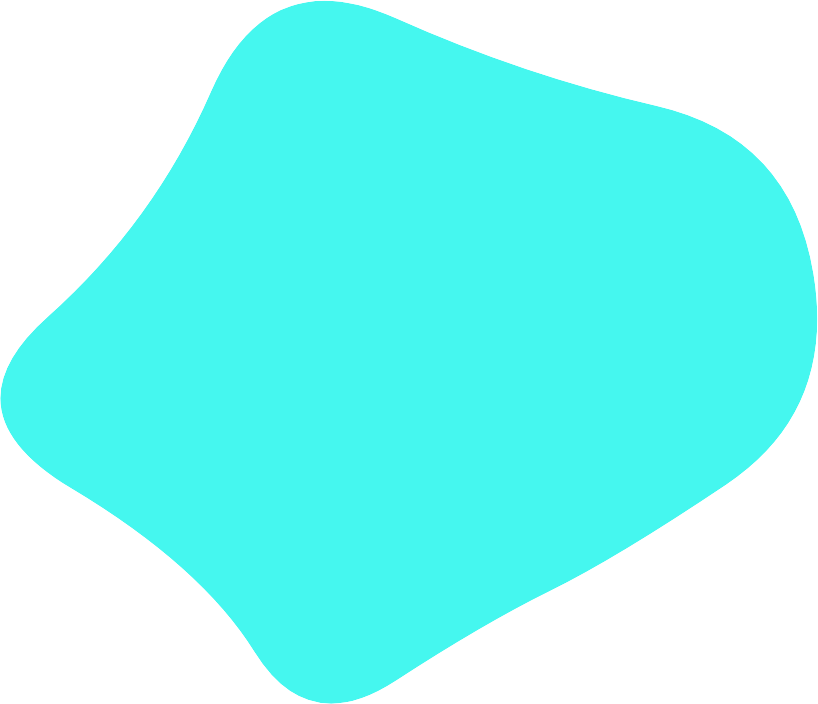
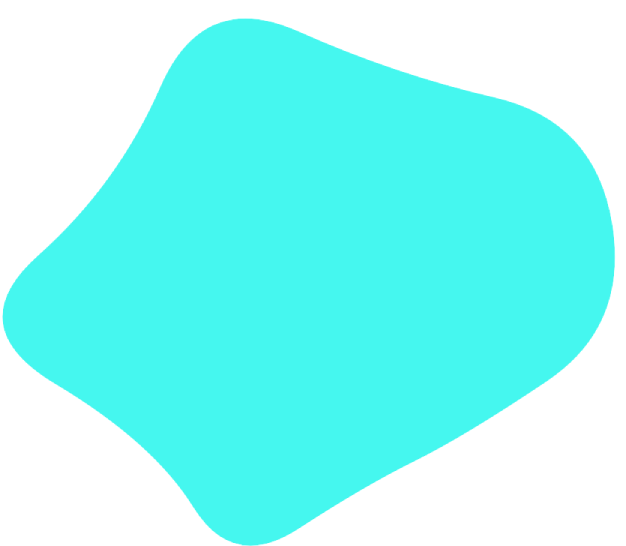
stil styling page

diff --git a/index.html b/index.html
@@ -18,11 +18,62 @@
             text-shadow: 2px 2px #2c2c2c;
         }
 
+        .text-shadowB {
+            text-shadow: 2px 2px #005e9c;
+        }
+
         .blob {
-            background-image: url('./blobs/blob9-2.png');
-            outline: 5px white;
-            height: 45%;
-            width: 45%;
+            height: auto;
+            width: 50vw;
+            display: block;
+            max-width: 100%;
+            z-index: -1;
+        }
+
+        .jokes-container {
+            word-wrap: break-word;
+            margin: 0 auto;
+            font-size: clamp(1rem, 2.5vw, 1.5rem);
+            text-align: center;
+            max-width: 90%;
+        }
+
+
+        @media (min-width: 1200px) {
+            .blob {
+                width: 35vw;
+                top: -10%;
+            }
+        }
+
+        @media (max-width: 1199px) and (min-width: 768px) {
+            .blob {
+                width: 45vw;
+                top: -12%;
+            }
+        }
+
+        @media (max-width: 768px) {
+            .jokes-container {
+                font-size: clamp(0.9rem, 4vw, 1.2rem);
+            }
+
+            .blob {
+                width: 70vw;
+                top: -5%;
+            }
+        }
+
+        @media (max-width: 576px) {
+            .blob {
+                top: -10%;
+                width: 80vw;
+            }
+
+            .temp-container {
+                font-size: clamp(0.8rem, 3vw, 1.2rem);
+
+            }
         }
     </style>
 </head>
@@ -30,10 +81,10 @@
 <body class="bg-image overflow-hidden" style="background-color: black;">
     <div class="container text-center mt-4">
         <div class="row align-items-center justify-content-center d-flex">
-            <div class="blob justify-content-center">
+            <div class="col-10 col-md-6 justify-content-center position-relative z-2">
                 <div class="temp-container text-white text-shadow mb-4 my-5"></div> <!-- TEMPERATURE -->
-                <div class="p-5 "> <!-- JOKES -->
-                    <div class="jokes-container m-4"></div>
+                <div class="p-4 mt-4"> <!-- JOKES -->
+                    <div class="jokes-container text-white text-shadowB m-4"></div>
                     <div>
                         <h6>Give it a score!</h6>
                         <button type="button" onclick="giveScore(1)" class="m-4 btn text-white"
@@ -43,10 +94,12 @@
                         <button type="button" onclick="giveScore(3)" class="m-4 btn text-white"
                             style="background-color: rgb(46, 111, 231);">3</button>
                     </div>
-                    <button type="button" class="m-4 btn btn-primary w-25" onclick="getJoke()"
-                        style="background-color:blueviolet; border-color: blueviolet;"> Another joke </button>
+                    <button type="button" class="m-4 btn btn-primary text-shadowB w-50" onclick="getJoke()"
+                        style="background-color:rgb(43, 226, 202); border-color: rgb(70, 208, 226);"> Another joke
+                    </button>
                 </div>
             </div>
+            <img src="./blobs/blob1-2.png" class="blob img-fluid position-absolute" style="top:10%;"> <!-- BLOB -->
         </div>
     </div>
 

diff --git a/main.ts b/main.ts
@@ -19,6 +19,8 @@ function getJoke(): void {
             currentJokes.push(chuckJoke)
             printJoke(currentJokes)
         });
+
+    changeBlob();
 }
 
 function printJoke(jokeArr: { joke: string }[]): void {
@@ -101,8 +103,12 @@ function printWeather(txt: { hourly: { time: string[]; temperature_2m: number[] 
         h6.textContent = `Temperature: ${temp}°C`;
         tempContainer.appendChild(h6);
     }
+}
 
+function changeBlob(): string {
+    let rand = Math.random() * 10;
 
+    return `./blobs/blob${rand}-2.png`;
 }
 
 getJoke();
